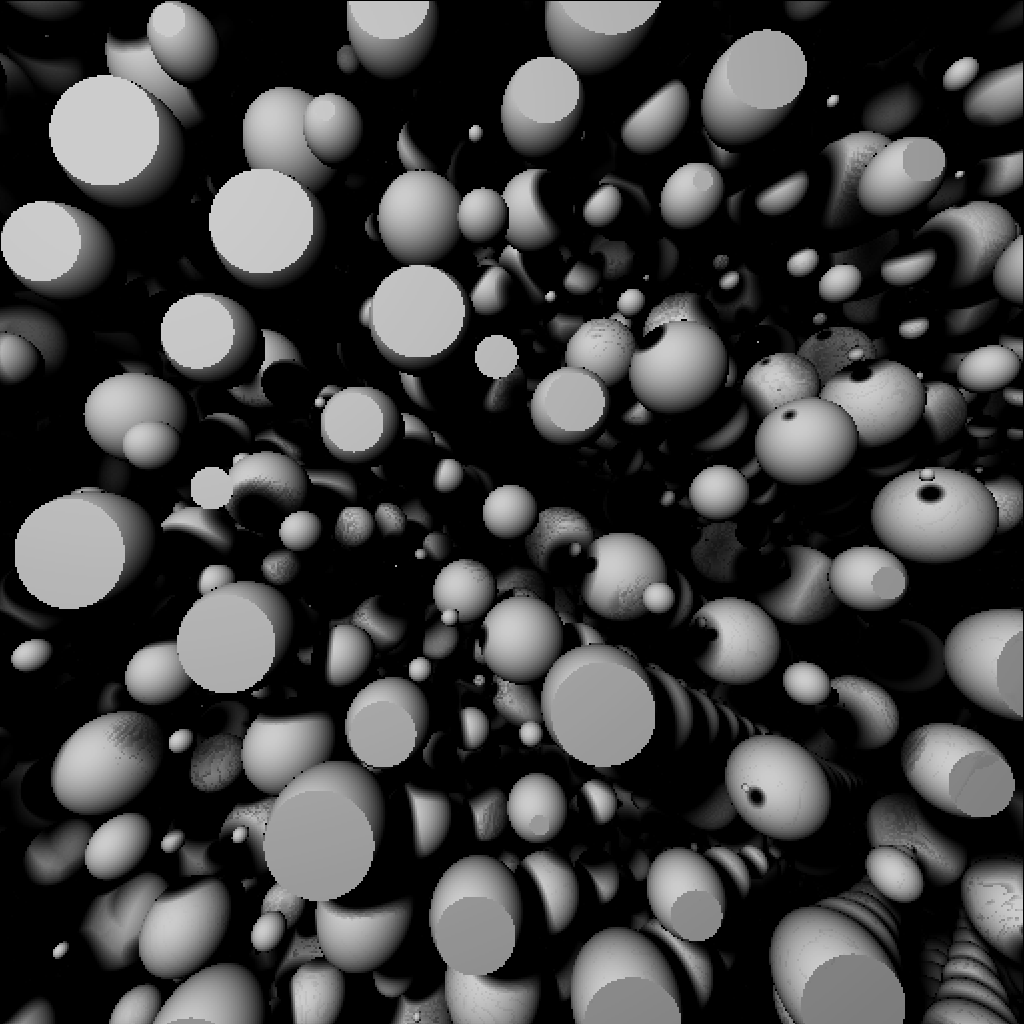
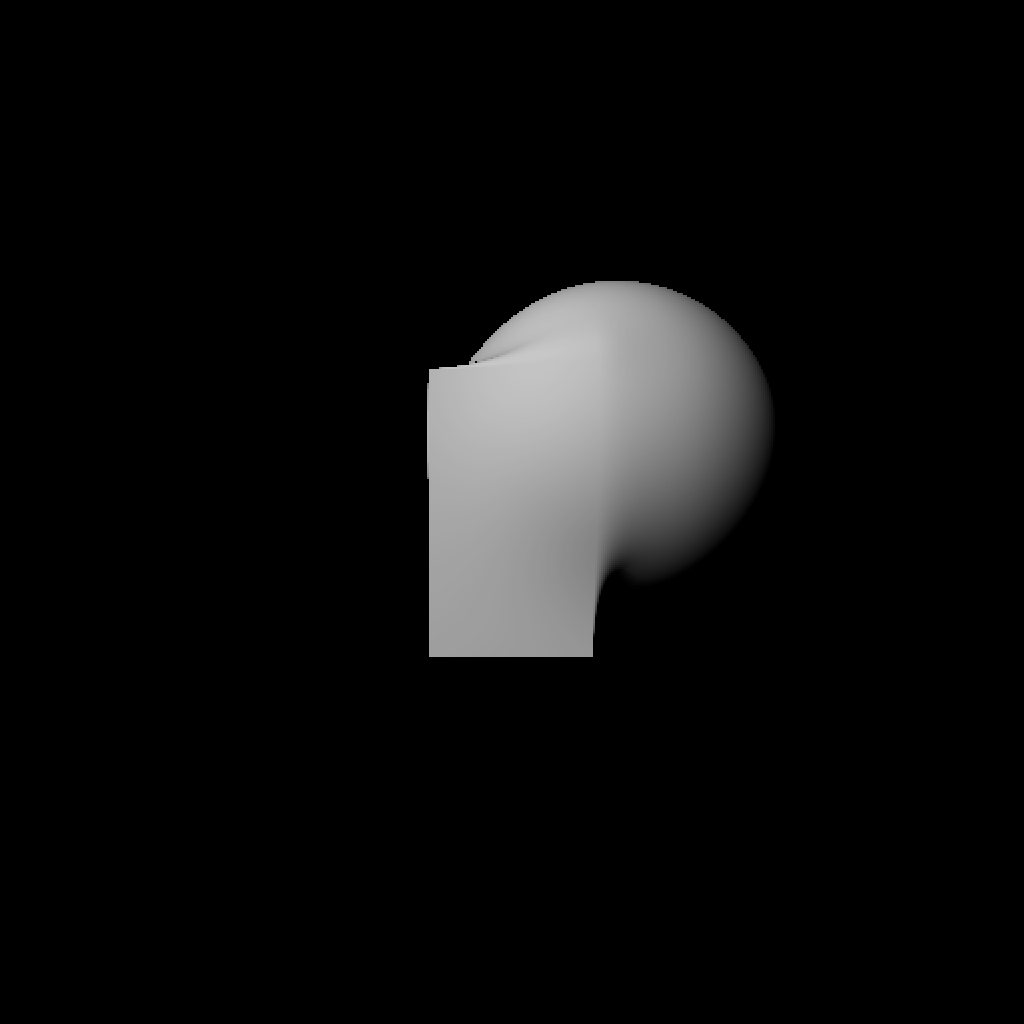
Add SUnion

diff --git a/RayMarcher.java b/RayMarcher.java
@@ -78,16 +78,19 @@ public class RayMarcher
 		StdDraw.setYscale(0, height);
 		StdDraw.clear(StdDraw.BLACK);
 
-		//var sphere = new Translate(new Sphere(1), new Vector3d(-0.6, 0.4, 0.3));
-		//var box = new Box(new Vector3d(0.4, 0.7, 0.5));
+		var sphere = new Translate(new Sphere(1), new Vector3d(-0.6, 0.4, 0.3));
+		var box = new Box(new Vector3d(0.4, 0.7, 0.5));
+
 		//objs.add(new Translate(new Rotate(box, new Vector3d(Math.toRadians(30), Math.toRadians(0), Math.toRadians(30))), new Vector3d(0, 0, 3)));
-		//objs.add(new Translate(new DisplaceSin(new Union(sphere, box), 12, 0.15), new Vector3d(-2, -2, 4)));
+		//objs.add(new Translate(new DisplaceSin(new SUnion(sphere, box, 0.5), 12, 0.15), new Vector3d(0, 0, 3)));
 		//objs.add(new Translate(new Intersect(sphere, box), new Vector3d(0, 0, 6)));
 		//objs.add(new Translate(new Subtract(sphere, box), new Vector3d(3, 3, 6)));
 
-		var nearBox = new Box(new Vector3d(4, 4, 4));
-		var grid = new Rotate(new RandSphGrid(0.5), new Vector3d(0, Math.toRadians(45), Math.toRadians(30)));
-		objs.add(new Subtract(grid, nearBox));
+		//var nearBox = new Box(new Vector3d(4, 4, 4));
+		//var grid = new Rotate(new RandSphGrid(0.5), new Vector3d(0, Math.toRadians(45), Math.toRadians(30)));
+		//objs.add(new Subtract(grid, nearBox));
+
+		objs.add(new Translate(new SUnion(sphere, box, 0.5), new Vector3d(0, 0, 3)));
 
 		var lightOrigin = new Vector3d(3, 3, -3);
 

diff --git a/SUnion.java b/SUnion.java
@@ -1,0 +1,26 @@
+import javax.vecmath.*;
+
+// Union using cubic smooth min, according to:
+// https://iquilezles.org/articles/smin/
+
+public class SUnion implements SDF
+{
+	private final SDF a;
+	private final SDF b;
+	private double k;
+
+	public SUnion(SDF a, SDF b, double k)
+	{
+		this.a = a;
+		this.b = b;
+		this.k = k;
+	}
+
+	@Override
+	public double dist(Vector3d p)
+	{
+		double ad = a.dist(p), bd = b.dist(p);
+		double h = Math.max(k - Math.abs(ad - bd), 0.0) / k;
+		return Math.min(ad, bd) - h * h * h * k / 6.0;
+	}
+}
